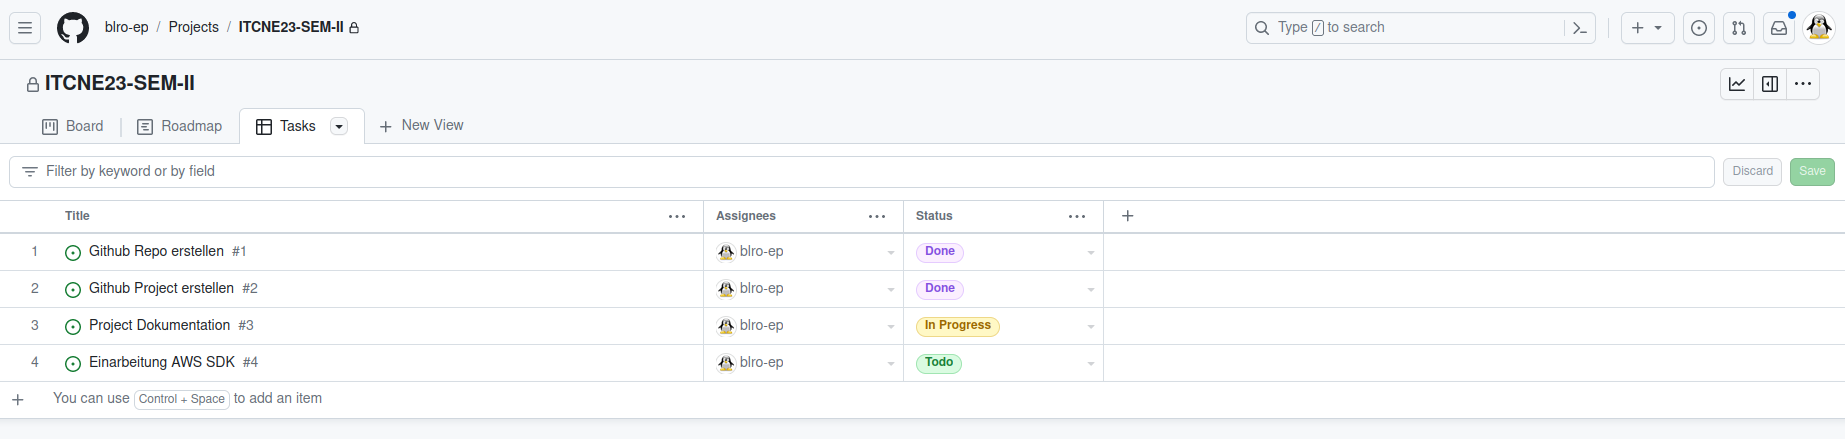
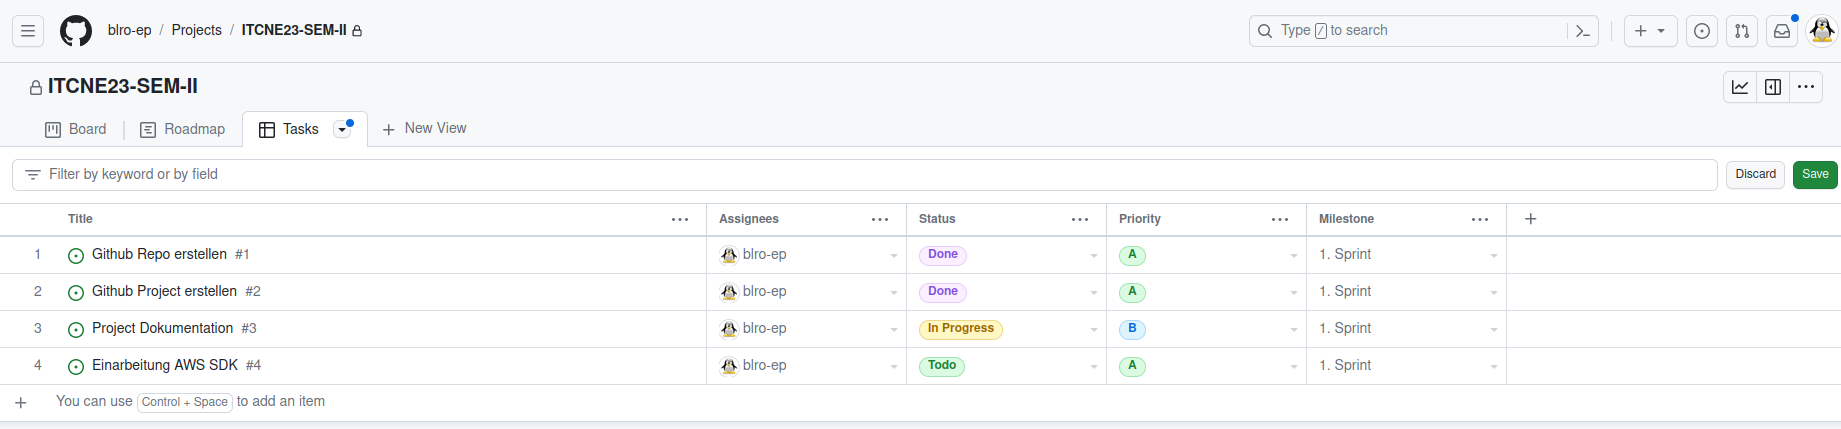
Update Projektmanagement

diff --git a/README.md b/README.md
@@ -1,6 +1,9 @@
 # ITCNE23-SEM-II
 
 ## Einleitung
+Der Focus der Semesterarbeit liegt beim Knowhowaufbau CI/CD Pipeline mit AWS.
+Es soll eine CI/CD Pipeline Aufgebaut werden, welche mittels Git eine Lambda Function updaten kann. Mittels Git PUSH soll AWS CodeBuild angestossen werden, welches das Deployment der Lambda Function übernimmt. 
+Die Function soll als REST API via Web erreichbar sein.
 
 ## Projektmanagement
 Als Projektmanagementmethode wird Kanban eingesetzt. Ich habe mich für diese agile Methode entschieden, um die Arbeitsprozesse zu visualisieren und den Arbeitsfluss zu steuern. 
@@ -17,14 +20,40 @@ Das Kanbanboard wir in 4 Spalten aufgeteilt
 - In Progress
 - Done
 - Backlog
-![Kanbanboard](../ITCNE23-SEM-II/picture/kanban_board.png)
 
-
-
+![Kanbanboard](picture/kanban_board.png)
 
 ### Roadmap
+Die Roadmap enthält Milestones, welche den Sprints entsprechen. Sämtliche Aufgaben werden einen Sprint zugeordnet.
 
-### Tasklisk
+![Roadmap](picture/roadmap.png)
+
+|| Datum || Sprint ||
+| 27.11.23 | Ergebnis 1. Sprint |
+| 18.12.23 | Ergebnis 2. Sprint |
+| 31.01.24 | Ergebnis 3. Sprint / Abgabe / Abnahem |
+
+### Tasklist
+Die Taskliste soll eine einfache möglichkeit bieten, um die Aufgaben nach Kategorien zu filtern.
+
+Kategorien:
+- Status
+- Priority
+- Milestones
+
+![Taskliste](picture/tasklist.png)
+
+### Sprints
+Das Ende von Sprint wird dokumentiert und der Stand des Kanbanboard grafisch festgehalten.
+
+#### Sprint 1 - 27.11.23
+
+
+#### Sprint 2 - 18.12.23
+
+
+#### Sprint 3 - 31.01.24
+
 
 
 ## IaaC
